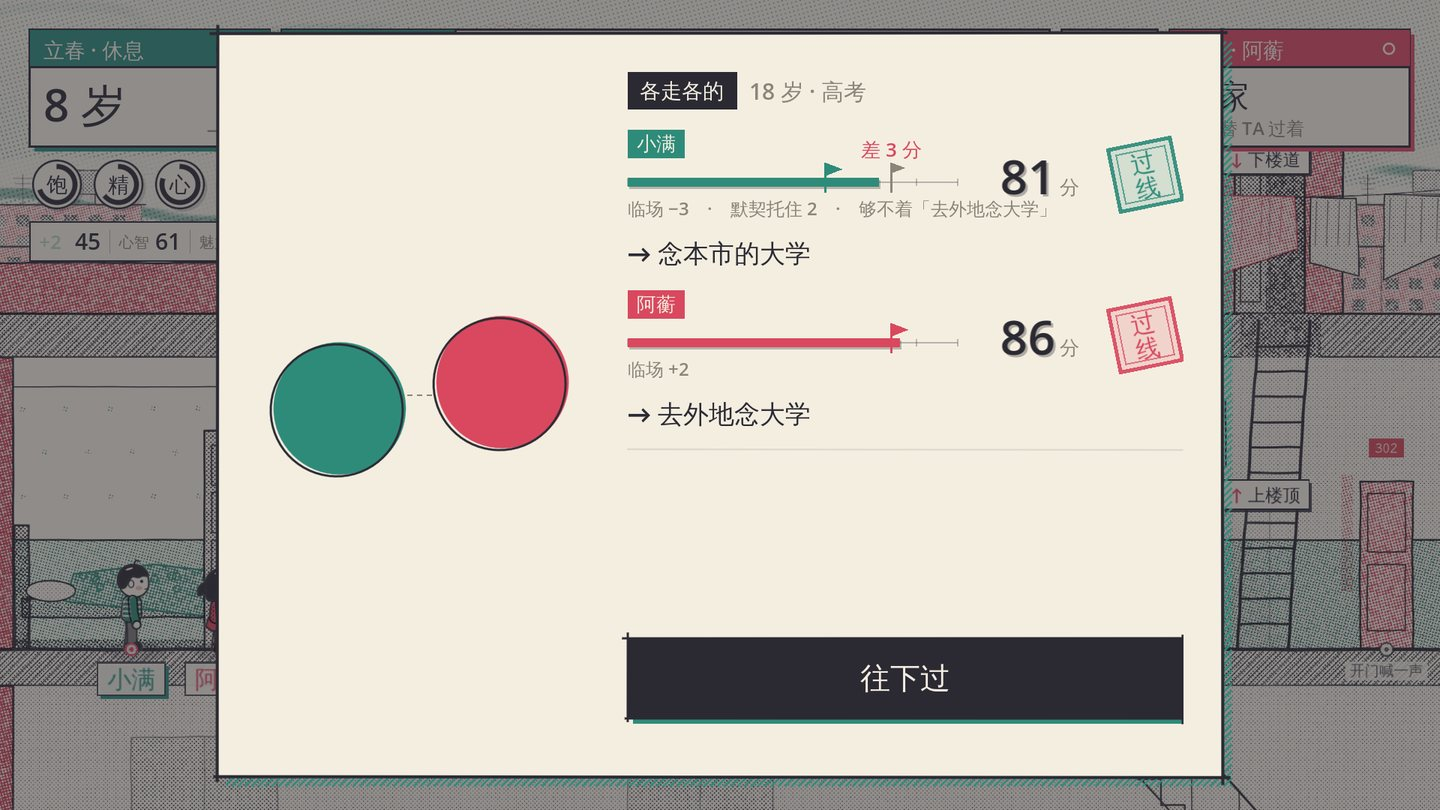
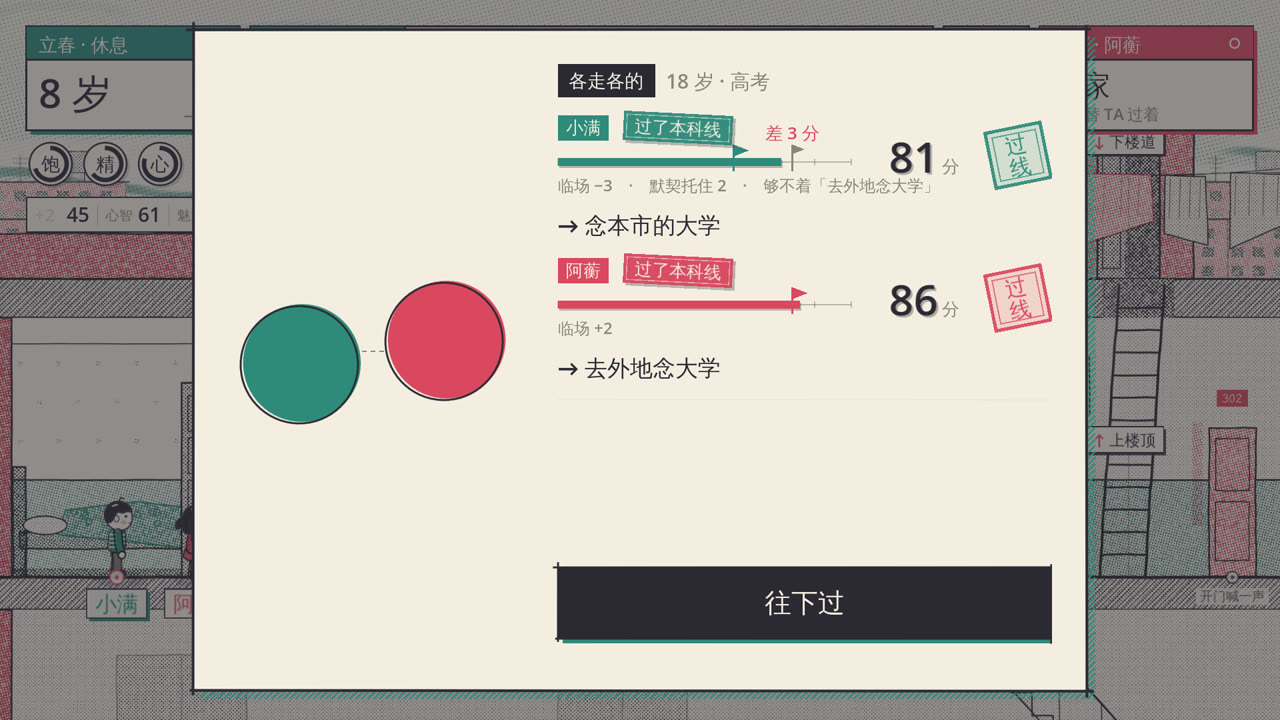
揭晓卡上够着名次档的砸一条横章；成绩单总账印名次，兜底那档不印；合入 main（#43）

Changed region(s): [[0.4375, 0.1528, 0.5938, 0.2444], [0.4375, 0.3361, 0.5938, 0.4278], [0.7812, 0.1833, 0.8125, 0.2139]]

diff --git a/docs/JUICE.md b/docs/JUICE.md
@@ -11,8 +11,8 @@
 | --- | --- | --- | --- |
 | 开始做一件事 | 脚下一圈自己颜色的墨晕开 | 行动原有的声音 | `ui/juice.gd` `_ring` |
 | 做完一件事 | 搭伴的先在两个人中间砸一方「搭伴 ×1.6」的印；长的分、挣的钱、亲近一张一张从人头上印出来，停一下，沿弧线飞进 HUD：三项飞进成长账那一格、钱飞进零花钱、亲近和默契飞进两个圆（两个圆挤一下）。落下的那一刻格子里的数才拨上去，关口纸带上的「还差几分」也同时拨、挂一个「+4」。TA 长的分在 TA 头上小一号冒一下 | 盖大印；每落一张「嗒」一声木琴，连着的按五声音阶一个比一个高；钱是钢镚儿 | `ui/juice.gd`、`ui/stat_strip.gd`、`ui/goal_panel.gd` |
-| 关口揭晓 | 两个人的分同时从 20 往上数，尺子跟着长；数过线的那一下小旗翻成自己的颜色；数完了够着的盖一方印（有成绩档印成绩档），差一点的停在灰旗前面，旗子抖两下，写「差 3 分」，底下一行「临场 −3 · 默契托住 2 · 够不着『去外地念大学』」；都数完了卡片震一下，再露出各自走的路和这一关的那句话 | 算盘珠子一颗一颗拨上去（越往上音越高）；过线一串八音盒 5 6 1 3；差一点是两声往下走的软木头 | `ui/reveal.gd`、`main.gd` `_show_milestone_result` |
-| 一个阶段过完 | 长大的那张墨卡右边多一张成绩单：最上面是这一章几场冲刺的总账，一道关一行（「12 岁 小升初 → 去普通班 差 2 分没够上『去重点班』」，走的路有线、够着了盖一方印），底下是这一阶段三项从多少长到多少（灰的是带进来的，彩色是这几年长的，空心圈是 TA 现在在哪），一路过来的长势曲线（实线是我、细线是 TA，竖线隔开阶段），搭伴做了几回事、想到一块儿几回、过了几道关。点一下揭开 | 翻一页，八音盒 1 2 3 5 6 1 | `ui/stage_report.gd`、`ui/fx.gd` `report_hook` |
+| 关口揭晓 | 两个人的分同时从 20 往上数，尺子跟着长；数过线的那一下小旗翻成自己的颜色；数完了够着的盖一方「过线」印，够着名次档的（关口 grades 里兜底以上那几档：考进年级前十、过了本科线）挨着名字再砸一条横章，差一点的停在灰旗前面，旗子抖两下，写「差 3 分」，底下一行「临场 −3 · 默契托住 2 · 够不着『去外地念大学』」；都数完了卡片震一下，再露出各自走的路和这一关的那句话 | 算盘珠子一颗一颗拨上去（越往上音越高）；过线一串八音盒 5 6 1 3；差一点是两声往下走的软木头 | `ui/reveal.gd`、`main.gd` `_show_milestone_result` |
+| 一个阶段过完 | 长大的那张墨卡右边多一张成绩单：最上面是这一章几场冲刺的总账，一道关一行（「12 岁 小升初 → 去普通班 差 2 分没够上『去重点班』」，走的路有线、够着了盖一方印，够着名次档就印名次），底下是这一阶段三项从多少长到多少（灰的是带进来的，彩色是这几年长的，空心圈是 TA 现在在哪），一路过来的长势曲线（实线是我、细线是 TA，竖线隔开阶段），搭伴做了几回事、想到一块儿几回、过了几道关。点一下揭开 | 翻一页，八音盒 1 2 3 5 6 1 | `ui/stage_report.gd`、`ui/fx.gd` `report_hook` |
 
 HUD 左边四个圆表底下多了一条「成长账」：体魄 / 心智 / 魅力，百分制。点开是正在过的这一阶段的成绩单（纸上版）。
 
